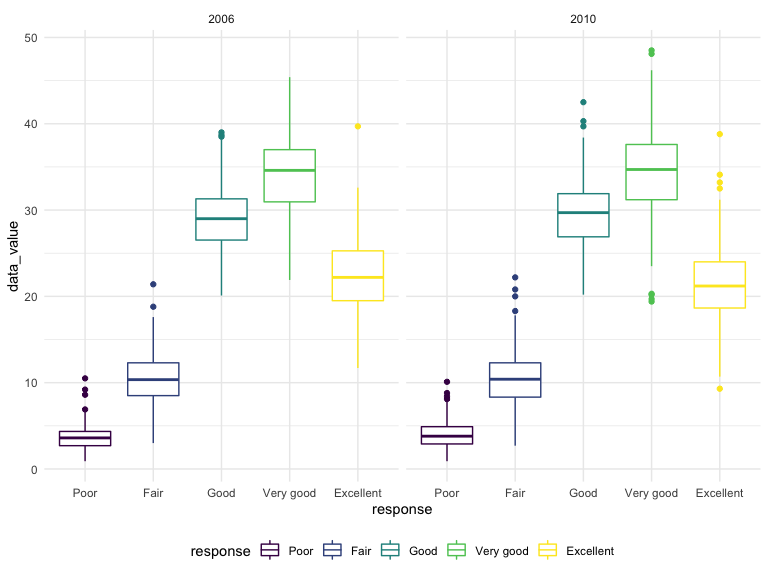
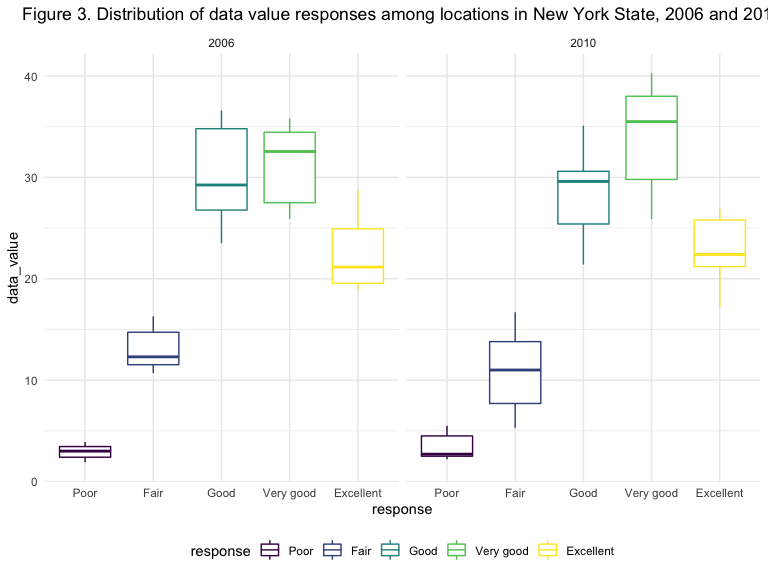
Editing two-panel plot showing distribution of data value responses in NY

diff --git a/p8105_hw3_sm4594.md b/p8105_hw3_sm4594.md
@@ -216,13 +216,18 @@ ggplot(brfss_subset, aes(x = year, y = mean_data_value)) + geom_line(aes(group =
 
 <img src="p8105_hw3_sm4594_files/figure-gfm/brfss_subset-1.png" width="90%" />
 
-Two-panel plot
+``` r
+##should I add the legend? Comment on this.
+```
+
+The plot below shows the distribution of `data_value` responses among
+locations in New York state in 2006 and 2010:
 
 ``` r
 brfss_data %>% 
-  filter(year %in% c("2006", "2010")) %>%
+  filter(year %in% c("2006", "2010"), state %in% c("NY")) %>%
   select(year, state, response, data_value) %>%
-  ggplot(aes(x = response, y = data_value)) + geom_boxplot(aes(color = response)) + facet_grid(~year)
+  ggplot(aes(x = response, y = data_value)) + geom_boxplot(aes(color = response)) + facet_grid(~year) + ggtitle("Figure 3. Distribution of data value responses among locations in New York State, 2006 and 2010") + theme(plot.title = element_text(hjust = 0.5))
 ```
 
 <img src="p8105_hw3_sm4594_files/figure-gfm/brfss_plot-1.png" width="90%" />
